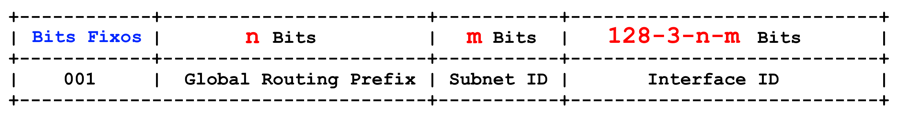
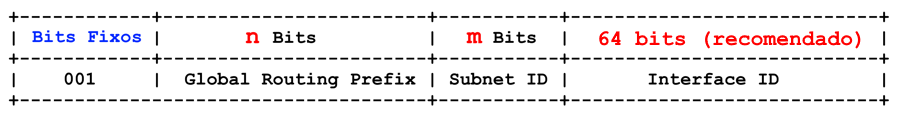
Escrevendo o Livro.

Changed region(s): [[0.6533, 0.2308, 0.9644, 0.4103]]

diff --git a/docs/capitulo-7/enderecamento-ipv6.md b/docs/capitulo-7/enderecamento-ipv6.md
@@ -9,8 +9,6 @@ hide:
 
 ## 7.2.1 Introdução ao IPv6
 
-#TODO: Vantagens do IPv6 = https://www.rfc-editor.org/rfc/rfc1883
-
 O IPv6 foi desenvolvido principalmente para suprir a falta de endereços do tipo IPv4. Hoje, todo novo host que _"nasce"_ na internet, _"nasce"_ com IPv6 e não mais com IPv4. Na verdade, nasce com IPv4 também porém, muitos provedores utilizam técnicas de NAT como CGNAT para permitir que esses novos hosts se comuniquem também com IPv4.
 
 !!! note "NOTA"
@@ -56,6 +54,10 @@ Além disso, grupos de zeros podem ser eliminados completamente. Por exemplo, o 
 A representação de **_prefixos de rede_**, por meio da notação _[CIDR](https://pt.wikipedia.org/wiki/Roteamento_Interdom%C3%ADnio_Sem_Classes)_, utilizada no IPv4, é aplicada da mesma forma no IPv6 para identificar a parte do endereço que representa a rede e a parte que representam os hosts:
 
 ![alt_text](./img/endereco-ipv6-6.png "Endereço IPv6 #6")
+
+Por fim, é importante ressaltar que a _[RFC 4291](https://www.rfc-editor.org/rfc/rfc4291.html#section-2.5.1)_ recomenda que os prefixos que identificam a rede não devem ultrapassar `/64`. Isso significa que, em um espaço de 128 bits, recomenda-se reservar **64 bits** para a parte que **identifica a rede** e os **64 bits** restantes para a identificação das **interfaces de rede**. Essa divisão é essencial para o funcionamento da **auto-configuração** do IPv6, a qual será detalhada mais adiante.
+
+![alt_text](./img/endereco-ipv6-7.png "Endereço IPv6 #7")
 
 ## 7.2.2 Tipos de Endereços
 
@@ -110,7 +112,7 @@ Outro aspecto importante relacionado aos endereços em uma rede IPv6 é que, em 
 
 A imagem abaixo apresenta o resultado do comando `ipconfig`, demonstrando a presença de múltiplos endereços IPv6 em uma interface de rede de um sistema operacional Windows:
 
-![alt_text](./img/endereco-ipv6-7.png "Endereço IPv6 #7")
+![alt_text](./img/endereco-ipv6-8.png "Endereço IPv6 #8")
 
 A seguir, veremos os tipos de endereços _[Unicast](https://www.rfc-editor.org/rfc/rfc4291.html#section-2.5)_ do IPv6, classificados de acordo com seu escopo de utilização.
 
@@ -125,11 +127,31 @@ Diferentemente do IPv4, o IPv6 oferece uma abundância de endereços disponívei
 !!! note "NOTA"
     É importante reforçar: **NÃO SE USA [NAT](https://pt.wikipedia.org/wiki/Network_address_translation) NO IPv6!** Embora existam alguns tipos de NAT no IPv6, como NAT64, NAT46 e NAT66, seu uso é destinado a outros fins e não para compartilhar um IP público entre várias máquinas na rede local para acessar a Internet. No IPv6, cada host, ou mais precisamente, cada interface de rede, recebe seu próprio IP público diretamente do provedor de acesso para se conectar à Internet.
 
+#### **Formato dos Endereços GUA**
+
+De acordo com a _[RFC 4291](https://www.rfc-editor.org/rfc/rfc4291.html#section-2.5.4)_, os endereços do tipo _[GUA](https://www.rfc-editor.org/rfc/rfc4291.html#section-2.5.4)_ possuem o seguinte formato:
+
+![alt_text](./img/ipv6-gua-1.png "Endereço IPv6 GUA")
+
+- **Bits Fixos**
+    - O três primeiros bits `001` do endereço são fixos e representam o bloco `2000::/3`. Dessa forma, os endereços do tipo _[GUA](https://www.rfc-editor.org/rfc/rfc4291.html#section-2.5.4)_ variam de `2000::` até `3xxx:xxxx:xxxx:xxxx:xxxx:xxxx:xxxx:xxxx`, onde a letra `x` pode assumir valores hexadecimais de `0` a `F`.
+
+- **Global Routing Prefix**
+    - Prefixo de roteamento global, utilizado para identificar o tamanho do bloco atribuído a uma rede.
+
+- **Subnet ID**
+    - Identificação da sub-rede, utilizada para identificar um enlace em uma rede.
+
+- **Interface ID**
+    - Identifica de maneira única uma interface de rede dentro da sub-rede. Como mencionado anteriormente, é recomendado utilizar **64 bits** para a parte que identifica as interfaces de rede.
+
 #### **Políticas de Alocação e Designação**
 
 A gestão e alocação dos blocos IPv6 em nível mundial é feita pela _[IANA (Internet Assigned Numbers Authority)](https://www.iana.org/)_. Esta por sua vez, aloca um bloco um bloco `/12` para cada _[RIR (Registros Regionais de Internet)](https://pt.wikipedia.org/wiki/Registro_Regional_da_Internet)_, como a _[ARIN (American Registry for Internet Numbers)](https://www.arin.net/)_, _[APNIC (Asia-Pacific Network Information Centre)](https://www.apnic.net/)_, _[LACNIC (Latin America and Caribbean Network Information Centre)](https://www.lacnic.net)_, entre outros.
 
 Na América Latina, que fica sob a gestão do _[LACNIC](https://www.lacnic.net)_, o bloco `2800::/12`, alocado pela _[IANA](https://www.iana.org/)_, é dividido e distribuído entre os países da região. No Brasil, o _[NIC.br](https://www.nic.br/)_ é responsável pelo gerenciamento do bloco `2804::/16`. A partir desse bloco, o _[NIC.br](https://www.nic.br/)_ aloca blocos para provedores de acesso à Internet _[(ISP - Internet Service Provider)](https://pt.wikipedia.org/wiki/Fornecedor_de_acesso_%C3%A0_internet)_, empresas e organizações, instituições de ensino e pesquisa, além de entidades governamentais.
+
+![alt_text](./img/ipv6-nicbr-1.png "IPv6 - Políticas de Alocação e Designação")
 
 !!! note "NOTA"
     O _[NIC.br](https://www.nic.br/)_ também gerencia blocos menores, como `2001:1280::/25` e `2001:1280::/25`, que são provenientes de alocações antigas. Para mais informações, consulte a página _[Endereçamento](https://ipv6.nic.br/post/enderecamento/)_ do _[NIC.br](https://www.nic.br/)_.
@@ -144,22 +166,20 @@ A partir do bloco `2804::/16`, o _[NIC.br](https://www.nic.br/)_ segue suas pró
 
 **4.** Bloco `/48` para usuários corporativos. Empresas maiores podem receber mais de um bloco `/48`.
 
-![alt_text](./img/ipv6-nicbr-1.png "IPv6 - Políticas de Alocação e Designação")
+Para se ter uma ideia, a partir de um bloco `/32`, temos **32 bits** disponíveis para criar sub-redes (`64 - 32 = 32 bits`). Isso permite a criação de até **quatro bilhões de sub-redes** diferentes (`2^32 = 4.294.967.296`). 
 
-#### **Formato dos Endereços GUA**
+Em um bloco `/48`, há **16 bits** para a criação de sub-redes (`64 - 48 = 16 bits`), o que representa um total de **65.536 sub-redes** possíveis (`2^16 = 65,536`).
 
-De acordo com a _[RFC 4291](https://www.rfc-editor.org/rfc/rfc4291.html#section-2.5.4)_, os endereços do tipo _[GUA](https://www.rfc-editor.org/rfc/rfc4291.html#section-2.5.4)_ possuem o seguinte formato:
+Já em um bloco `/56`, temos **8 bits** para criar sub-redes (`64 - 56 = 8 bits`), resultando em um total de **256 sub-redes** disponíveis (`2^8 = 256`).
 
-![alt_text](./img/ipv6-gua-1.png "Endereço IPv6 GUA")
+Observe que a alocação e a subdivisão para a criação das sub-redes ocorrem nos primeiros 64 bits de um endereço IPv6. Os 64 bits restantes são utilizados para identificar as interfaces de rede, permitindo endereçar aproximadamente **dezoito quatrilhões de interfaces de rede** dentro de uma sub-rede (`2 ^ 64 = 18.446.744.073.709.551,616`).
 
-- **Bits Fixos**
-    - O três primeiros bits `001` do endereço são fixos e representam o bloco `2000::/3`. Assim, os endereços do tipo _[GUA](https://www.rfc-editor.org/rfc/rfc4291.html#section-2.5.4)_ variam de `2000::` até `3fff:ffff:ffff:ffff:ffff:ffff:ffff:ffff`, sendo que a letra `f` pode variar de `0` à `F` em hexadecimal.
+!!! note "NOTA"
+    É bastante provável que o seu provedor de acesso forneça um bloco `/56` para que você possa acessar a Internet. Como você verá, o _[OCI](https://www.oracle.com/cloud/)_ também disponibiliza um bloco `/56` nas VCNs com sub-redes públicas configuradas para IPv6.
 
-- **Global Routing Prefix**
-    - Prefixo de roteamento global, utilizado para identificar o tamanho do bloco atribuído a uma rede.
+### **[ULA (Unique Local Addresses)](https://www.rfc-editor.org/rfc/rfc4193)**
 
-- **Subnet ID**
-    - Identificação da sub-rede, utilizada para identificar um enlace em uma rede.
+## 7.2.x IPv6 no OCI
 
-- **Interface ID**
-    - Identifica de forma única uma interface de rede dentro da sub-rede.
+!!! note "NOTA"
+    Embora se afirme que todo host recebe um endereço IPv6 público para se comunicar com a Internet, no _[OCI](https://www.oracle.com/cloud/)_ não é possível ter endereços públicos em uma sub-rede privada. Para que um host se comunique com a Internet no _[OCI](https://www.oracle.com/cloud/)_, é necessário que ele possua um endereço IP público e seja criado em uma sub-rede pública.

diff --git a/docs/index.md b/docs/index.md
@@ -33,7 +33,7 @@ Boa leitura!
 
 | Status              | Última Atualização | Versão   |
 |---------------------|--------------------|----------|
-| <span class="blink">Ainda escrevendo...</span> | 25/08/2025         | 1.0.0b   |
+| <span class="blink">Ainda escrevendo...</span> | 26/08/2025         | 1.0.0b   |
 
 ## Sumário
 
